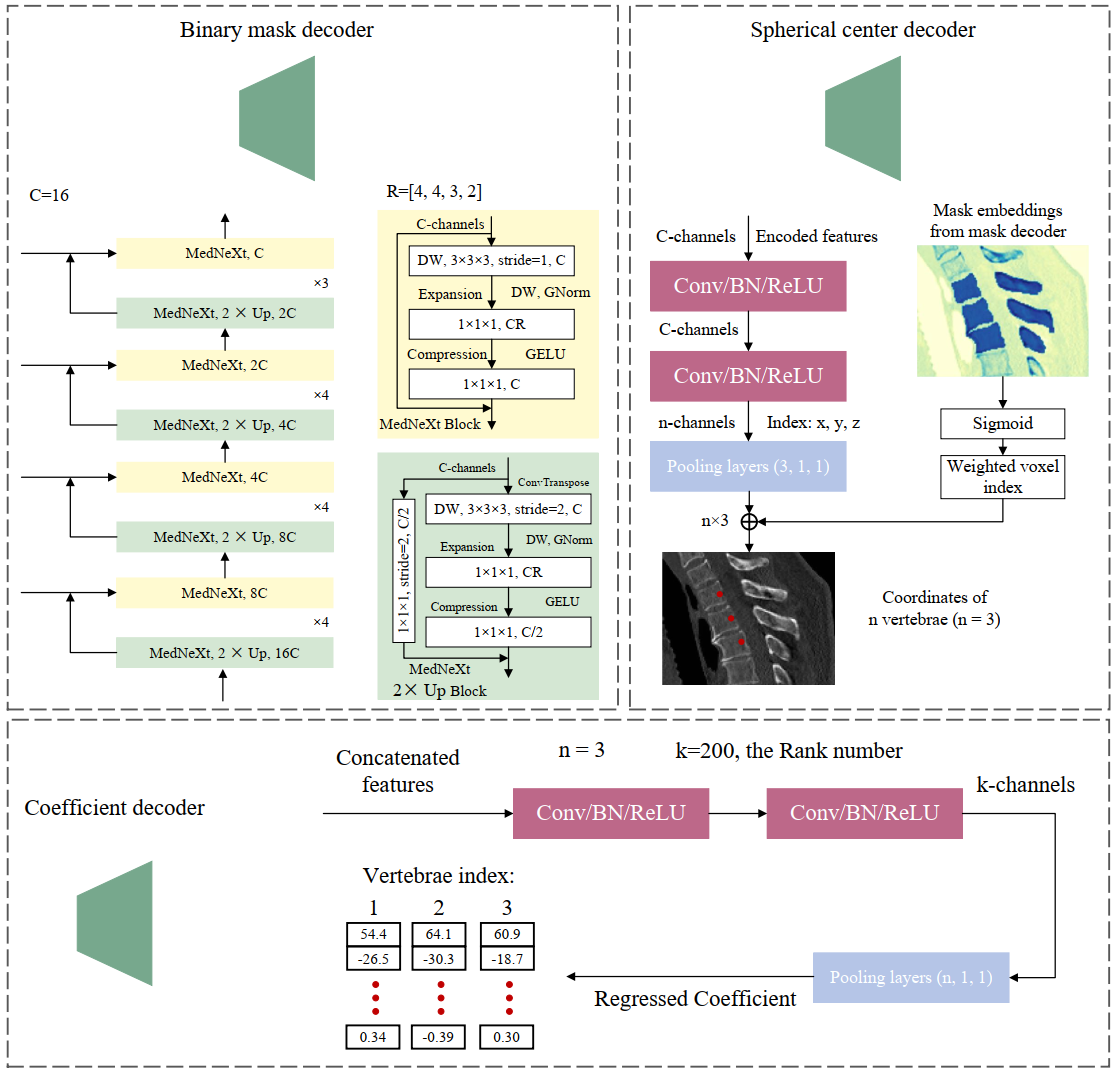
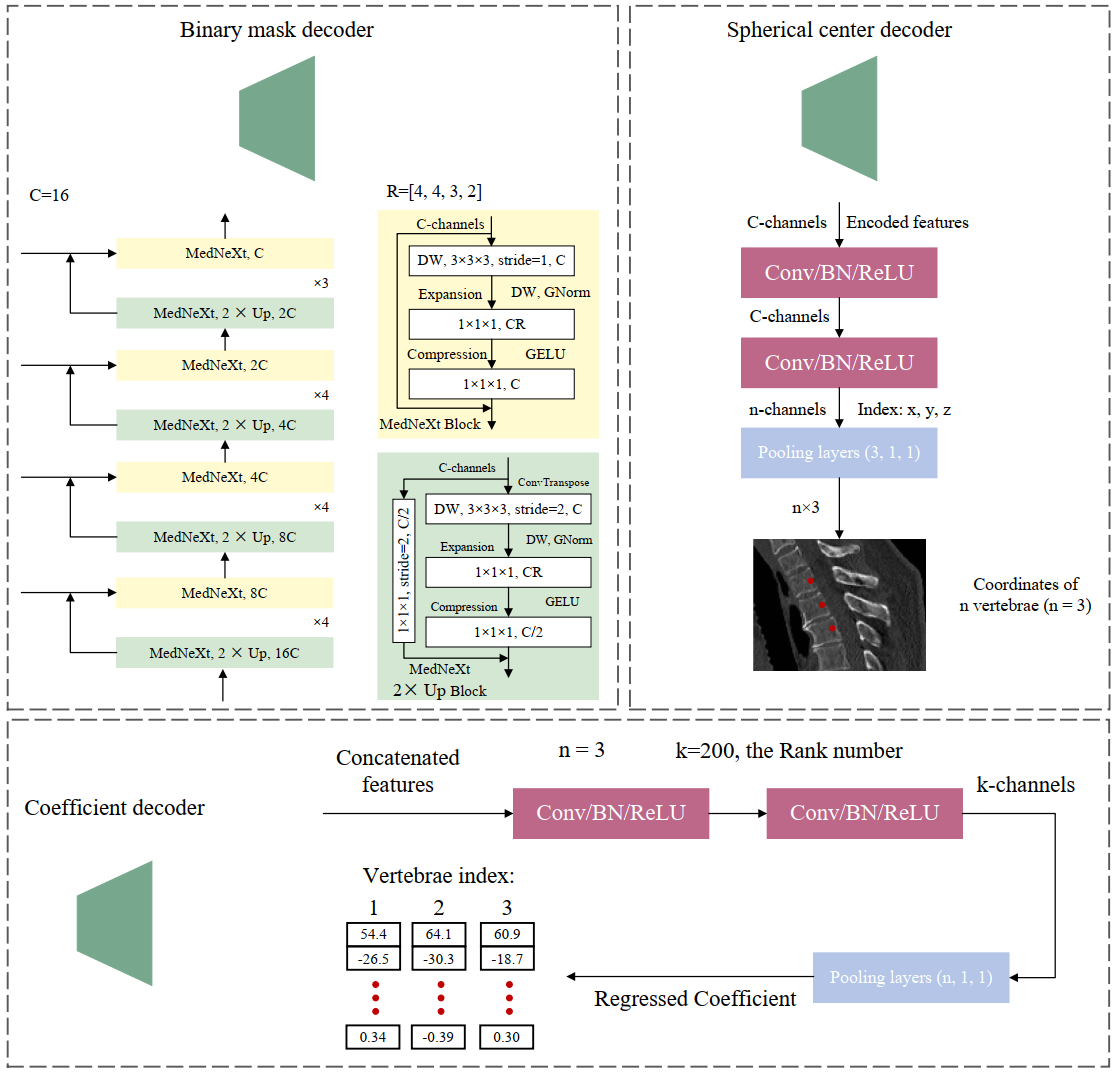
update

diff --git a/second_stage/train.py b/second_stage/train.py
@@ -35,9 +35,9 @@ parser.add_argument('--deterministic', type=int,  default=1,
 parser.add_argument('--base_lr', type=float,  default=0.01,        # 0.01
                     help='segmentation network learning rate')
 parser.add_argument('--img_size', type=int,
-                    default=[64, 112, 96], help='input patch size of network input')                 # network input image size : 128
+                    default=[112, 128, 64], help='input patch size of network input')                 # network input image size : 128
 parser.add_argument('--coefficient', type=int,
-                    default=512, help='input patch size of network input')
+                    default=200, help='input patch size of network input')
 parser.add_argument('--seed', type=int,
                     default=1234, help='random seed')
 parser.add_argument('--n_skip', type=int,
@@ -116,7 +116,7 @@ if __name__ == "__main__":
     os.environ["CUDA_VISIBLE_DEVICES"] = '2, 3'         # '0,1,2,3'
     torch.cuda.empty_cache()
     # net = Net(in_channel=3, out_channel=args.num_classes, training=False, config=config_vit).cuda()
-    net = network(in_channel=3, out_channel=args.num_classes, z=args.img_size[0], y=args.img_size[1], x=args.img_size[2], num_coefficient=args.coefficient, args=args).cuda()
+    net = network(in_channel=4, out_channel=args.num_classes, z=args.img_size[0], y=args.img_size[1], x=args.img_size[2], num_coefficient=args.coefficient, args=args).cuda()
     # load pretrained weight
     # net.load_from(weights=np.load(config_vit.pretrained_path))
 

diff --git a/second_stage/networks/center_regression_net.py b/second_stage/networks/center_regression_net.py
@@ -45,15 +45,16 @@ class center_regression(nn.Module):
         self.x_index = nn.Parameter(x_index, requires_grad=False)
         self.pool = nn.AdaptiveAvgPool3d((3, 1, 1))
 
-    def forward(self, x, mask):
+    def forward(self, x):
         # x: B * C * dim * H/16 * W/16 * L/16
         x = self.encoder1(x)
         x = self.encoder2(x)
         x = self.encoder3(x)
         x = self.encoder4(x)
-        mask = torch.sigmoid(mask)
-        center_residual = self.pool(x).flatten(2)  # b * 3 * 3
+        # mask = torch.sigmoid(mask)
+        center = self.pool(x).flatten(2)  # b * 3 * 3
         # print(mask.shape, self.num_batch)
+        '''
         z_center = torch.mean(mask * self.z_index.unsqueeze(0).repeat(self.num_batch, 1, 1, 1),
                               dim=(1, 2, 3)).repeat(1, 3).unsqueeze(2)
         y_center = torch.mean(mask * self.y_index.unsqueeze(0).repeat(self.num_batch, 1, 1, 1),
@@ -63,6 +64,7 @@ class center_regression(nn.Module):
         center = torch.cat((z_center, y_center, x_center), 2)
         # print(center.shape, center_residual.shape)
         center = center + center_residual            # b * 3 * 3
+        '''
         return center
 
 

diff --git a/second_stage/networks/binary_segmentation.py b/second_stage/networks/binary_segmentation.py
@@ -7,7 +7,7 @@ from . center_regression_net import center_regression
 
 
 class network(nn.Module):
-    def __init__(self, in_channel=3, out_channel=2, z=64, y=112, x=96, num_coefficient=500, args=None):
+    def __init__(self, in_channel=4, out_channel=2, z=64, y=112, x=96, num_coefficient=500, args=None):
         super(network, self).__init__()
         self.hybrid_model = ResNetV2(block_units=(2, 3, 3), width_factor=1)
         self.width = 32
@@ -48,7 +48,7 @@ class network(nn.Module):
     def forward(self, x):
         # print(x.shape)
         if x.size()[1] == 1:
-            x = x.repeat(1,3,1,1,1)
+            x = x.repeat(1,4,1,1,1)
         t1 = self.encoder1(x)
     
         x, features = self.hybrid_model(t1)
